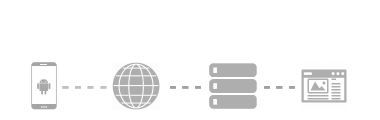
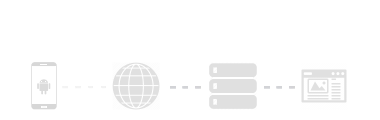
Greyed Web Content/Service & improved serversdialog

Changed region(s): [[0.0868, 0.525, 0.9263, 0.925], [0.0579, 0.85, 0.1737, 0.925], [0.0579, 0.5, 0.1737, 0.55]]

diff --git a/InssidiousUi/Widgets/Tamper/ConfigureServersDialog.cpp b/InssidiousUi/Widgets/Tamper/ConfigureServersDialog.cpp
@@ -5,19 +5,25 @@
 #pragma comment(lib, "Qt5Network.lib")	
 
 
-ConfigureServersDialog::ConfigureServersDialog(QPoint global, QList<QString> *ipList)
+ConfigureServersDialog::ConfigureServersDialog(QWidget* parent, QList<QString> *ipList)
+	: QDialog(parent)
 {
 	saveList = ipList;
-	this->global = global;
 
-	this->setWindowTitle(dialogTitleText);
+	this->setWindowTitle("Configure Servers");
 	this->setWindowIcon(QIcon(":/InssidiousUi/Inssidious.ico"));
-	this->setWindowFlags(Qt::FramelessWindowHint);
+	//this->setWindowFlags(Qt::FramelessWindowHint);
 	this->setStyleSheet(dialogStyleSheet);
-	
+	this->setFixedSize(360, 260);
 
-	dialogPalette.setColor(QPalette::WindowText, QColor(230, 230, 230));
-	dialogPalette.setColor(QPalette::ButtonText, QColor(0, 0, 0));
+	QPoint dialogCenter = mapToGlobal(rect().center());
+	QPoint parentWindowCenter = parent->window()->mapToGlobal(parent->window()->rect().center());
+
+	move(parentWindowCenter - dialogCenter);
+
+
+	dialogPalette.setColor(QPalette::WindowText, QColor(51, 51, 51));
+	dialogPalette.setColor(QPalette::ButtonText, QColor(51, 51, 51));
 
 	dialogFont.setFamily("Segoe UI Semibold");
 	dialogFont.setPixelSize(12);
@@ -28,39 +34,36 @@ ConfigureServersDialog::ConfigureServersDialog(QPoint global, QList<QString> *ip
 	dialogTitle = new QLabel();
 	dialogTitle->setText(dialogTitleText);
 	dialogTitle->setPalette(dialogPalette);
-	dialogTitle->setFont(QFont("Segoe UI Semibold", 15, QFont::DemiBold));
-	dialogTitle->setAlignment(Qt::AlignHCenter);
-	dialogTitle->setFixedHeight(30);
+	dialogTitle->setWordWrap(true);
+	//dialogTitle->setFont(dialogFont);
+	dialogTitle->setAlignment(Qt::AlignTop);
+	dialogTitle->setFixedHeight(46);
 
-	listWidgetDescription = new QLabel("  Blocked:");
-	listWidgetDescription->setFont(dialogFont);
+	listWidgetDescription = new QLabel("Blocked Servers:");
+	//listWidgetDescription->setFont(dialogFont);
 	listWidgetDescription->setPalette(dialogPalette);
-	listWidgetDescription->setFixedHeight(16);
+	listWidgetDescription->setFixedHeight(20);
+	listWidgetDescription->setAlignment(Qt::AlignBottom | Qt::AlignLeft);
+
 	listWidget = new QListWidget();
-	listWidget->setSelectionMode(QAbstractItemView::MultiSelection);
+	listWidget->setSelectionMode(QAbstractItemView::ExtendedSelection);
 	listWidget->setStyleSheet(listWidgetStyleSheet);
+	listWidget->setFixedHeight(82);
 
 	dialogInstructions = new QLabel(dialogInstructionsText);
 	dialogInstructions->setFixedHeight(16);
-	dialogInstructions->setFont(dialogFont);
+	//dialogInstructions->setFont(dialogFont);
 	dialogInstructions->setPalette(dialogPalette);
 
 	input = new QLineEdit();
-	input->setFont(dialogFont);
-	input->setFixedWidth(140);
+	input->setPlaceholderText("server.example.com");
+	//input->setFont(dialogFont);
 
 	buttonAdd = new QPushButton("Add");
-	buttonAdd->setFont(dialogFont);
-	buttonAdd->setFixedWidth(120); 
-	buttonRemove = new QPushButton("Remove Selected");
-	buttonRemove->setFont(dialogFont);
-	buttonRemove->setFixedWidth(120); 
+	buttonRemove = new QPushButton("Remove");
+	buttonClear = new QPushButton("Clear");
 	buttonSave = new QPushButton("Save");
-	buttonSave->setFont(dialogFont);
-	buttonSave->setFixedWidth(120); 
 	buttonCancel = new QPushButton("Cancel");
-	buttonCancel->setFont(dialogFont);
-	buttonCancel->setFixedWidth(120);
 
 
 	connect(buttonAdd, &QPushButton::clicked, this, &ConfigureServersDialog::onAdd);
@@ -71,16 +74,18 @@ ConfigureServersDialog::ConfigureServersDialog(QPoint global, QList<QString> *ip
 
 	dialogGridLayout = new QGridLayout();
 	dialogGridLayout->setAlignment(Qt::AlignHCenter);
-	dialogGridLayout->addWidget(dialogTitle, 0, 0, 1, 2);
-	dialogGridLayout->addWidget(dialogInstructions, 2, 0);
-	dialogGridLayout->addWidget(listWidget, 2, 1, 6, 1);
-	dialogGridLayout->addWidget(listWidgetDescription, 1, 1);
-	dialogGridLayout->addWidget(input, 3, 0);
-	dialogGridLayout->addWidget(buttonAdd, 4, 0, Qt::AlignHCenter);
-	dialogGridLayout->addWidget(buttonRemove, 5, 0, Qt::AlignHCenter);
-	dialogGridLayout->addItem(new QSpacerItem(20, 10), 6, 0);
-	dialogGridLayout->addWidget(buttonSave, 7, 0, Qt::AlignHCenter);
-	dialogGridLayout->addWidget(buttonCancel, 8, 0, Qt::AlignHCenter);
+
+	dialogGridLayout->addWidget(dialogTitle, 0, 0, 1, 3);
+	dialogGridLayout->addWidget(dialogInstructions, 1, 0, 1, 2);
+	dialogGridLayout->addWidget(input, 2, 0, 1, 2);
+	dialogGridLayout->addWidget(buttonAdd, 2, 2, 1, 1, Qt::AlignHCenter);
+	dialogGridLayout->addWidget(listWidgetDescription, 3, 0, 1, 3);
+	dialogGridLayout->addWidget(listWidget, 4, 0, 4, 2);
+	dialogGridLayout->addWidget(buttonRemove, 4, 2, 1, 1, Qt::AlignTop | Qt::AlignHCenter);
+	dialogGridLayout->addWidget(buttonClear, 5, 2, 1, 1, Qt::AlignTop | Qt::AlignHCenter);
+	dialogGridLayout->addItem(new QSpacerItem(10, 10), 8, 0);
+	dialogGridLayout->addWidget(buttonSave, 9, 1, Qt::AlignRight);
+	dialogGridLayout->addWidget(buttonCancel, 9, 2, Qt::AlignHCenter);
 
 
 	setLayout(dialogGridLayout);
@@ -150,7 +155,7 @@ void ConfigureServersDialog::onSave()
 void ConfigureServersDialog::showEvent(QShowEvent* e)
 {
 	
-	this->move(global.x() - this->width() / 2, global.y() - this->height() / 2);
+	//this->move(global.x() - this->width() / 2, global.y() - this->height() / 2);
 	
 }
 

diff --git a/InssidiousUi/Widgets/Tamper/UiTamperNoServer.cpp b/InssidiousUi/Widgets/Tamper/UiTamperNoServer.cpp
@@ -7,16 +7,9 @@ UiTamperNoServer::UiTamperNoServer(QWidget *parent, TamperType tamperType)
 {
 	pTamperConfig = static_cast<void*>(new TamperNoServerConfig{ false });
 
-	configServersButton = new QPushButton();
-	configServersButton->setStyleSheet(buttonStyleSheet);
-	configServersButton->setFixedSize(130, 30);
-	configServersButton->setText("???");
-
-
 	noServerLayout = new QGridLayout();
 	noServerLayout->setSpacing(0);
 	noServerLayout->setAlignment(Qt::AlignHCenter);
-	//noServerLayout->addWidget(configServersButton, 0, 0, Qt::AlignHCenter);
 
 
 	buttonImagePaletteActive.setBrush(QPalette::Background, QBrush(QPixmap(":/Tamper/TamperNoServerActive.png")));
@@ -28,8 +21,6 @@ UiTamperNoServer::UiTamperNoServer(QWidget *parent, TamperType tamperType)
 	buttonImage->setGeometry(0, 0, 380, 120);
 	buttonImage->setAttribute(Qt::WA_TransparentForMouseEvents);
 	buttonImage->show();
-
-	connect(configServersButton, &QPushButton::clicked, this, &UiTamperNoServer::onConfigureServers);
 
 	moduleLayout->addLayout(noServerLayout);
 }
@@ -43,12 +34,14 @@ void UiTamperNoServer::setActive(bool active)
 
 		this->setPalette(moduleBackgroundPaletteActive);
 		this->buttonImage->setPalette(buttonImagePaletteActive);
-
-		/* Enable the buttons */
-
-		configServersButton->setEnabled(true);
 		
+
+		QList<QString> stringList;
+		ConfigureServersDialog* dialog = new ConfigureServersDialog(this->parentWidget(), &stringList);
+		dialog->exec();
+		delete dialog;
 		
+
 		/* Set the config value to true and the block button to checked */
 
 		static_cast<TamperNoServerConfig*>(pTamperConfig)->blockServers = true;
@@ -66,10 +59,6 @@ void UiTamperNoServer::setActive(bool active)
 		this->setPalette(moduleBackgroundPaletteInactive);
 		this->buttonImage->setPalette(buttonImagePaletteInactive);
 
-		/* Uncheck and disable all buttons */
-
-		configServersButton->setDisabled(true);
-
 
 		/* Set the config value to false */
 
@@ -86,12 +75,11 @@ void UiTamperNoServer::setActive(bool active)
 void UiTamperNoServer::onConfigureServers()
 {
 	
-	QList<QString> stringList;
-	QPoint global = this->mapToGlobal(rect().center());
-	ConfigureServersDialog* dialog = new ConfigureServersDialog(global, &stringList);
-	dialog->exec();
-	delete dialog;
-
+	//QList<QString> stringList;
+	//QPoint global = this->mapToGlobal(rect().center());
+	//ConfigureServersDialog* dialog = new ConfigureServersDialog(&stringList);
+	//dialog->exec();
+	//delete dialog;
 	//if (stringList.count() > 0)
 	//{
 	//	//TODO: get this to the tamper module	

diff --git a/InssidiousUi/Widgets/Tamper/ConfigureServersDialog.h b/InssidiousUi/Widgets/Tamper/ConfigureServersDialog.h
@@ -13,35 +13,36 @@ class ConfigureServersDialog : public QDialog
 	Q_OBJECT
 
 public:
-	ConfigureServersDialog(QPoint global, QList<QString> *ipList);
+	ConfigureServersDialog(QWidget* parent, QList<QString> *ipList);
 
 private:
 	QGridLayout* dialogGridLayout;
 
 	QLabel* dialogTitle;
-	QString dialogTitleText = "Configure Blocked Servers";
+	QString dialogTitleText = "You can add and remove blocked servers for this device. All servers listed in this list will be not be reachable nor heard from while enabled.";
 	QList<QString> *saveList;
 	QPoint global;
 
 	QLabel* listWidgetDescription;
 	QListWidget* listWidget;
-	QString listWidgetStyleSheet = 
-		"QListWidget{ border-width:1px;	border-radius: 2px; border-color: #2D2F31; background-color: #FDFDFD;}";
+	QString listWidgetStyleSheet =
+		"QListWidget{ border-style: solid; border-width:1px; border-radius: 0px; border-color: #828790; background-color: #FDFDFD;}";
 	/*QListWidget::item { border-style: solid; border-width:1px;	border-color:black; background-color: green; }\
 		QListWidget::item:selected { background-color: red; }\*/
 
 	QFont dialogFont;
 	QPalette dialogPalette;
 	QString dialogStyleSheet =
-		"QDialog{ border: 2px solid #72C55D; border-radius: 5px; background-color: #3F4649;}";
+		"QDialog{ margin: 0px; padding: 0px; border: none; background-color: #F0F0F0;}";
 
 	QLabel* dialogInstructions;
-	QString dialogInstructionsText = "Add a Domain or IP Address: ";
+	QString dialogInstructionsText = "Add Servers: ";
 
 	QLineEdit* input;
 
 	QPushButton* buttonAdd;
 	QPushButton* buttonRemove;
+	QPushButton* buttonClear;
 	QPushButton* buttonSave;
 	QPushButton* buttonCancel;
 

diff --git a/InssidiousUi/Widgets/Tamper/UiTamperNoWebContent.cpp b/InssidiousUi/Widgets/Tamper/UiTamperNoWebContent.cpp
@@ -33,6 +33,16 @@ UiTamperNoWebContent::UiTamperNoWebContent(QWidget *parent, TamperType tamperTyp
 
 	connect(noWebContentButton, &QPushButton::clicked, this, &UiTamperNoWebContent::onNoTrafficButtonClicked);
 
+
+
+	/* 'Disable' this widget for now, functionality not implemented */
+
+	this->moduleTextPalette.setColor(QPalette::WindowText, QColor(175, 175, 175));
+	this->moduleDescriptionLabel->setPalette(moduleTextPalette);
+	this->moduleNameLabel->setPalette(moduleTextPalette);
+	this->setAttribute(Qt::WA_TransparentForMouseEvents);
+
+
 	moduleLayout->addLayout(noWebContentLayout);
 }
 

diff --git a/InssidiousUi/Widgets/Tamper/UiTamperWebServiceFailures.cpp b/InssidiousUi/Widgets/Tamper/UiTamperWebServiceFailures.cpp
@@ -67,6 +67,13 @@ UiTamperWebServiceFailures::UiTamperWebServiceFailures(QWidget *parent, TamperTy
 	webServiceFailuresLayout->addWidget(buttonRight, 0, 3);
 
 
+	/* 'Disable' this widget for now, functionality not implemented */
+
+	this->moduleTextPalette.setColor(QPalette::WindowText, QColor(175, 175, 175));
+	this->moduleDescriptionLabel->setPalette(moduleTextPalette);
+	this->moduleNameLabel->setPalette(moduleTextPalette);
+	this->setAttribute(Qt::WA_TransparentForMouseEvents);
+
 
 	moduleLayout->addLayout(webServiceFailuresLayout);
 }

diff --git a/InssidiousUi/Widgets/Tamper/UiTamperModule.h b/InssidiousUi/Widgets/Tamper/UiTamperModule.h
@@ -37,6 +37,7 @@ public:
 	
 	QVBoxLayout* moduleLayout;
 	QLabel* moduleDescriptionLabel;
+	QLabel* moduleNameLabel;
 
 	/* Used by child classes to pass parameters to InssidiousCore */
 	
@@ -131,7 +132,8 @@ private:
 	/* Name Font and Name Label are private from child classes */
 	
 	QFont moduleNameFont;
-	QLabel* moduleNameLabel;
+	//QLabel* moduleNameLabel;
+	//QLabel* moduleDescriptionLabel;
 
 	/* Palettes and Pixmaps for the Active/Inactive states */
 

diff --git a/InssidiousCore/TamperTypes.h b/InssidiousCore/TamperTypes.h
@@ -31,9 +31,9 @@ static QString TamperTypeName[NUM_TAMPER_TYPES]
 	QString("Network Firewall"),
 	QString("Network Damage"),
 	QString("No Internet"),
-	QString("No Server"),
-	QString("No Web Content"),
-	QString("Web Service Failures")
+	QString("Block Servers"),
+	QString("Block Web Content (Coming Soon)"),
+	QString("Web Service Failures (Coming Soon)")
 };
 
 static QString TamperTypeDescription[NUM_TAMPER_TYPES]

diff --git a/InssidiousCore/Controllers/DivertController.cpp b/InssidiousCore/Controllers/DivertController.cpp
@@ -128,6 +128,10 @@ int DivertController::sendAllListPackets()
 // step function to let module process and consume all packets on the list
 void DivertController::divertConsumeStep() 
 {
+	if (packetList->isListEmpty())
+	{
+		return;
+	}
 
 #ifdef _DEBUG
 	ULONGLONG startTick = GetTickCount64(), dt;
